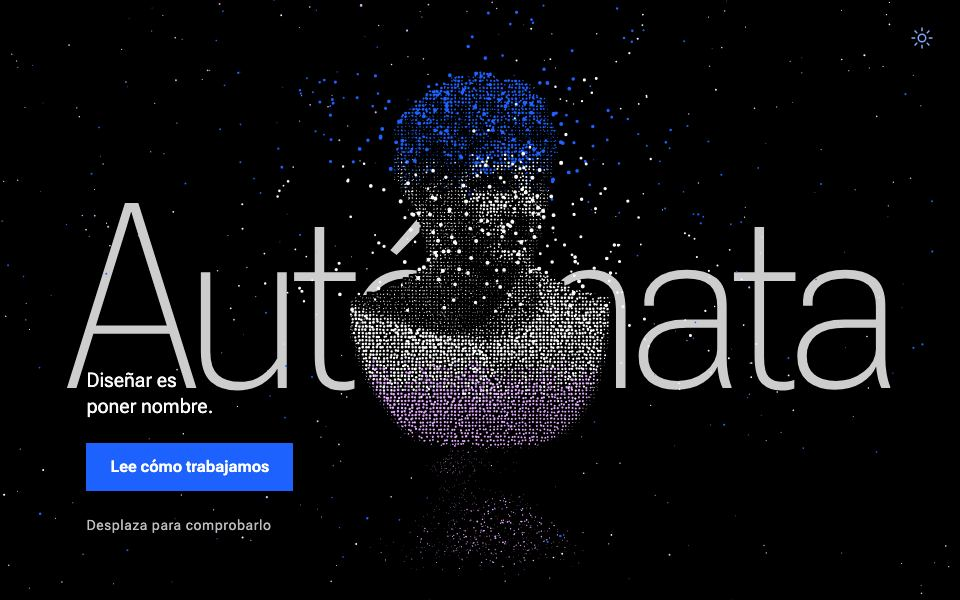
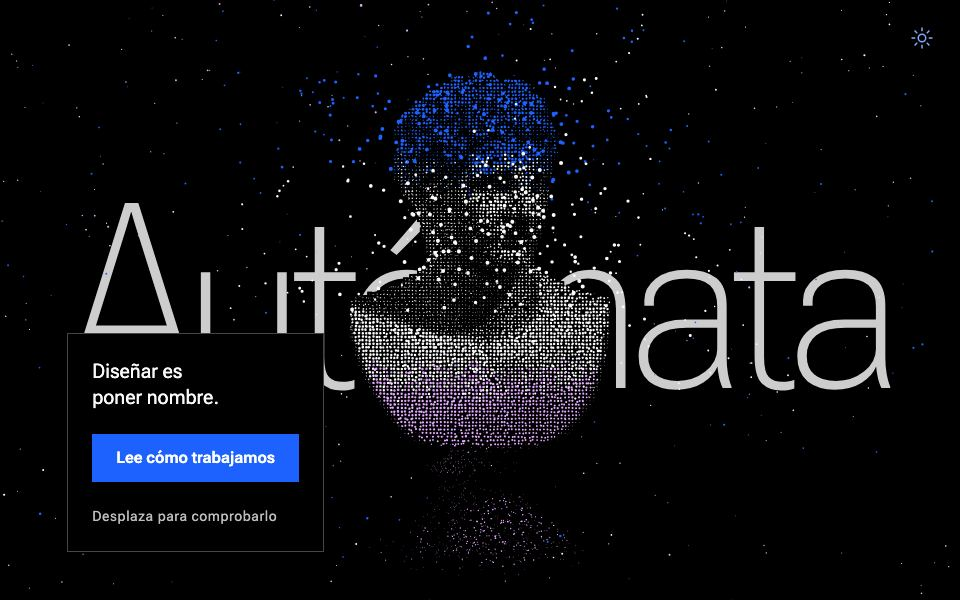
fix: la entrada de las portadas va sobre un recuadro, como en túneles y nubes
La frase se cruzaba con la palabra grande en las portadas del busto. La regla del recuadro es ahora una sola, compartida. Vistas previas de las tres portadas rehechas.

diff --git a/site/escaneo.css b/site/escaneo.css
@@ -17,7 +17,8 @@ body { margin: 0; background: var(--ui-02); color: var(--text-01); font-family: 
 .escaneo__palabra { align-self: center; justify-self: center; margin: 0; font-size: clamp(5rem, 27vw, 30rem); line-height: 0.8; font-weight: var(--font-weight-display); letter-spacing: -0.03em; white-space: nowrap; color: var(--text-01); user-select: none; }
 .escaneo__lienzo { width: 100%; height: 100%; display: block; }
 .escaneo__figura { margin: 0; min-width: 0; min-height: 0; }
-.escaneo__entrada { align-self: end; justify-self: start; box-sizing: border-box; max-width: min(100%, 26rem); padding: var(--space-48) var(--space-16) var(--space-64) clamp(var(--space-16), 9vw, 10rem); display: grid; gap: var(--space-24); justify-items: start; }
+/* What is said at the entrance, on the page's own ground: it is read over the word and over the dots. */
+.escaneo__entrada { align-self: end; justify-self: start; box-sizing: border-box; max-width: min(100% - 2 * var(--space-16), 24rem); margin: var(--space-16) var(--space-16) var(--space-48) clamp(var(--space-16), 7vw, 8rem); padding: var(--space-24); background: var(--ui-02); border: 1px solid var(--border-subtle); border-radius: var(--radius-tag); display: grid; gap: var(--space-24); justify-items: start; }
 .escaneo__frase { margin: 0; font-size: 1.25rem; line-height: 1.3; font-weight: var(--font-weight-heading); text-wrap: balance; }
 .escaneo__frase span { display: block; }
 .escaneo__accion { display: inline-flex; align-items: center; min-height: var(--space-48); padding: 0 var(--space-24); border-radius: var(--radius-button); background: var(--button-filled-bg); color: var(--text-on-interactive); font-weight: var(--font-weight-emphasis); text-decoration: none; transition: background-color var(--duration-fast-02) var(--easing-standard-productive); }
@@ -41,7 +42,7 @@ body { margin: 0; background: var(--ui-02); color: var(--text-01); font-family: 
 .oficio li span { color: var(--text-02); }
 .oficio .nota { font-size: 0.875rem; color: var(--text-03); }
 @media (max-width: 44rem) {
-  .escaneo__entrada { padding: var(--space-24) var(--space-16) var(--space-40); }
+  .escaneo__entrada { margin: var(--space-16) var(--space-16) var(--space-24); }
   .escaneo__datos { padding: var(--space-64) var(--space-16) var(--space-24); grid-template-columns: 1fr 1fr; grid-template-rows: auto 1fr auto; }
   .escaneo__dato { font-size: 0.9375rem; }
   .escaneo__dato:nth-child(1) { grid-area: 1 / 1; align-self: start; } .escaneo__dato:nth-child(2) { grid-area: 1 / 2; align-self: start; }

diff --git a/site/recorrido.css b/site/recorrido.css
@@ -1,12 +1,10 @@
 /* A page that walks into a scanned place: the same page as a scanned thing's (escaneo.css), with what is said set
    to the sides of the way, one thing at a time, each on the page's own ground so that it is read over the dots. */
 .recorrido { height: 560vh; }
-.recorrido .escaneo__entrada { max-width: min(100% - 2 * var(--space-16), 24rem); margin: var(--space-16) var(--space-16) var(--space-48) clamp(var(--space-16), 7vw, 8rem); padding: var(--space-24); background: var(--ui-02); border: 1px solid var(--border-subtle); border-radius: var(--radius-tag); }
 .recorrido.recorrido--vivo .escaneo__palabra { position: absolute; left: 0; top: 0; width: max-content; align-self: start; justify-self: start; font-size: 10rem; line-height: 1; transform-origin: 0 0; opacity: 1; }
 .recorrido--vivo .escaneo__datos { grid-template-columns: minmax(0, 1fr); grid-template-rows: minmax(0, 1fr); }
 .recorrido--vivo .escaneo__dato:nth-child(n) { grid-area: 1 / 1; align-self: center; justify-self: start; box-sizing: border-box; max-width: 20rem; padding: var(--space-24); background: var(--ui-02); border: 1px solid var(--border-subtle); opacity: 0; pointer-events: none; }
 .recorrido--vivo .escaneo__dato:nth-child(2n) { justify-self: end; }
 @media (max-width: 44rem) {
-  .recorrido .escaneo__entrada { margin: var(--space-16) var(--space-16) var(--space-24); }
   .recorrido--vivo .escaneo__dato:nth-child(n) { align-self: end; justify-self: stretch; max-width: none; padding: var(--space-16); }
 }
